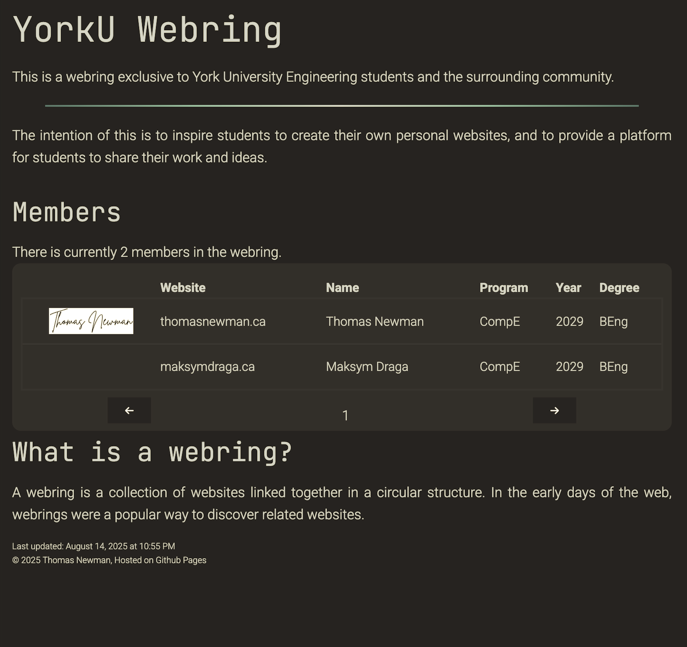
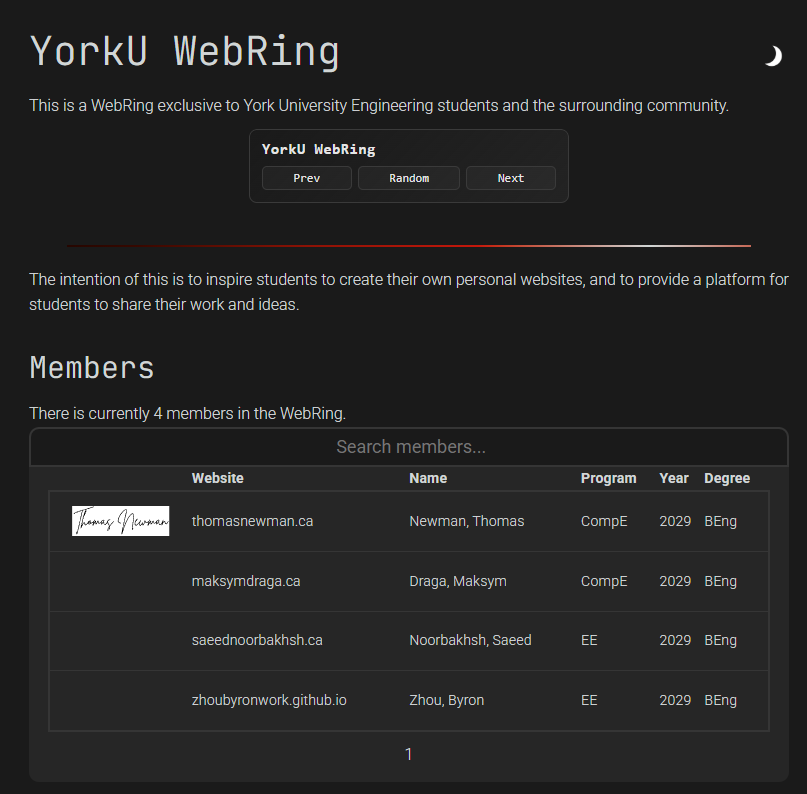
Widget addition + Webring update

diff --git a/projects/wb/index.html b/projects/wb/index.html
@@ -38,7 +38,7 @@
                 <hr>
 
                 <div class="aboutme">
-                    <div class="bio thin">
+                    <div class="bio thick">
                         <p>In this project, I tried recreating a relic of the internet, the WebRing
                             <strong>(WB)</strong> using a combination of HTML, CSS and JavaScript. I wanted
                             to capture the essence of the original WebRing concept, which was to connect
@@ -59,7 +59,7 @@
                             <li>Member data is retrieved from a master CSV file for easy addition of new members</li>
                             <li>Maximum 10 members per page on the list, with stylized buttons for easy navigation</li>
                             <li>Easily sort and search for specific members on the WebRing</li>
-                            <li><strong>(WIP)</strong> Simple and easy widget for finding the next member in the list</li>
+                            <li>Simple and easy widget for finding the next member in the list</li>
                         </ul>
                         <hr>
                         <h2 class="medium-header" id="code">Code</h2>
@@ -69,11 +69,13 @@
                                     <button class="file-btn" data-file="https://raw.githubusercontent.com/oop1-10/webring/main/index.html">index.html</button>
                                     <button class="file-btn" data-file="https://raw.githubusercontent.com/oop1-10/webring/main/styles.css">styles.css</button>
                                     <button class="file-btn" data-file="https://raw.githubusercontent.com/oop1-10/webring/main/scripts/front.js">front.js</button>
+                                    <button class="file-btn" data-file="https://raw.githubusercontent.com/oop1-10/webring/main/webring-widget.html">widget.html</button>
+                                    <button class="file-btn" data-file="https://raw.githubusercontent.com/oop1-10/webring/main/scripts/widget.js">widget.js</button>
                                 </div>
                                 <div class="tool-buttons">
-                                <button class="copy-btn">Copy</button>
-                                <button class="raw-btn">View Raw</button>
-                                <a class="download-link" href="#">Download</a>
+                                    <button class="copy-btn">Copy</button>
+                                    <button class="raw-btn">View Raw</button>
+                                    <a class="download-link" href="#">Download</a>
                                 </div>
                             </div>
                             <pre><code>Loading code...</code></pre>

diff --git a/index.html b/index.html
@@ -40,6 +40,14 @@
                             I have experience in a variety of programming languages, including Python, C++, Java, HTML and CSS.
                             This site will be updated periodically with new info about my projects, 
                             interests and education.</p>
+                        <embed
+                            src="https://webring.thomasnewman.ca/webring-widget.html?site=thomasnewman.ca"
+                            width="320"
+                            height="96"
+                            style="max-width:100%; border-radius: 8px;"
+                            loading="lazy"
+                            class="widget"
+                            />
                     </div>
 
                     <figure id="pfp">

diff --git a/styles.css b/styles.css
@@ -390,12 +390,7 @@ hr {
     padding: 8px 12px;
     border-bottom: 1px solid #d0d6d6;
     flex-wrap: nowrap;
-    overflow-x: auto;
     white-space: nowrap;
-}
-
-.code-header > * {
-    flex: 0 0 auto;
 }
 
 .code-header button, .code-header a {
@@ -491,6 +486,8 @@ hr {
     padding: 0;
     border-bottom: none;
     margin-right: 12px;
+    overflow-x: auto;
+    scrollbar-width: none;
 }
 .file-selector button {
     margin-right: 8px;
